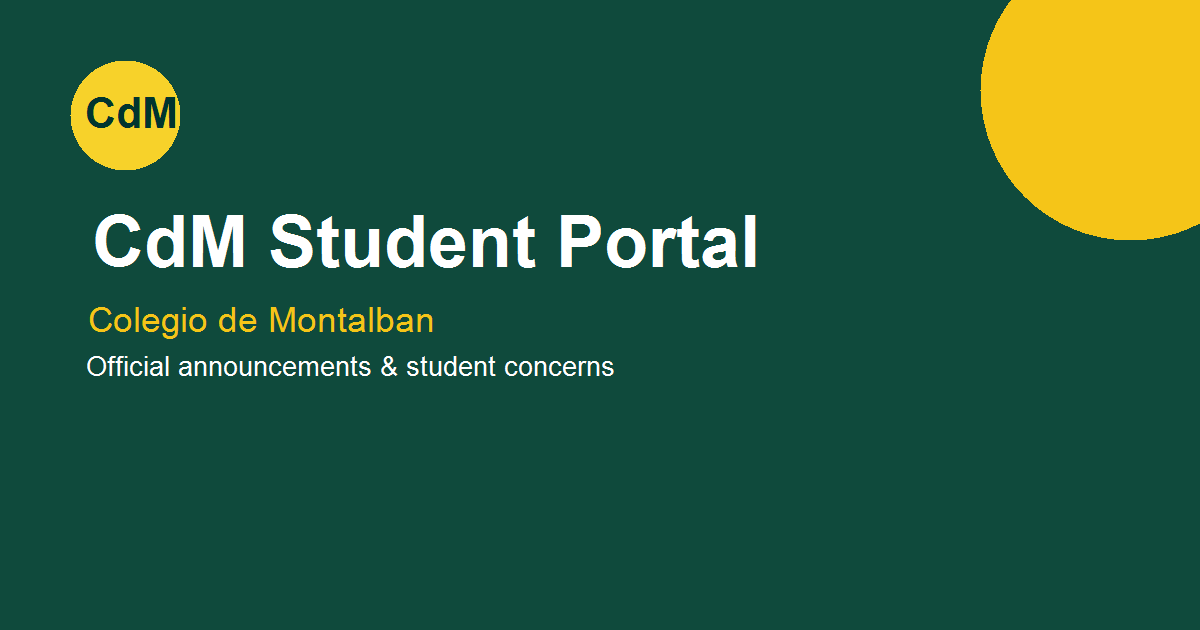
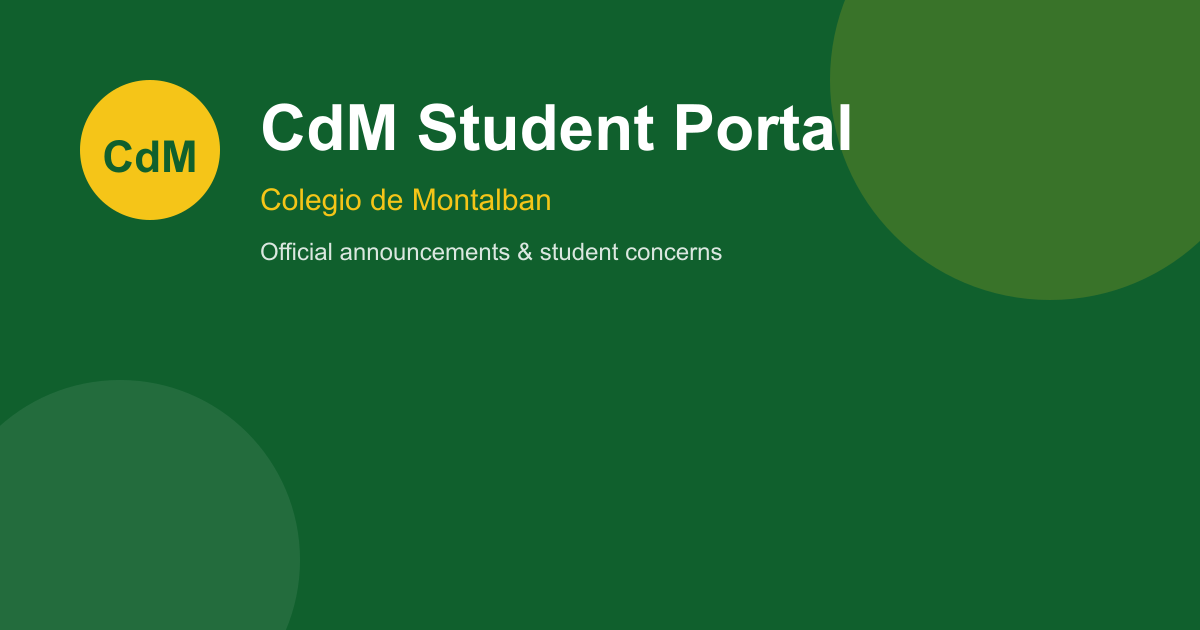
style: rebrand palette to evergreen + golden yellow
Retheme the design system from the previous navy-green/gold scheme to evergreen (#0A4D2E) and golden yellow (#F8C143), and update every place those colours are hard-coded: design tokens, gradients, selection, buttons and cards (styles.css); the CdM monogram (Logo.tsx); favicon.svg; og-cover.svg/png; the PWA manifest (theme_color); the theme-color meta tag in __root.tsx; the SSR error page; and the admin 'Read' status colour/badge.

Also applies prettier formatting to styles.css and backend/test-features.mjs. No behaviour change.

diff --git a/cdm-student-website-main/src/styles.css b/cdm-student-website-main/src/styles.css
@@ -56,44 +56,46 @@
 
 :root {
   --radius: 0.75rem;
-  --font-body: "Inter", ui-sans-serif, system-ui, -apple-system, "Segoe UI",
-    Roboto, Helvetica, Arial, sans-serif;
-  --font-heading: "Plus Jakarta Sans", "Inter", ui-sans-serif, system-ui,
-    -apple-system, "Segoe UI", Roboto, Helvetica, Arial, sans-serif;
-  --background: oklch(0.975 0.008 90);
-  --foreground: oklch(0.2 0.02 20);
+  --font-body:
+    "Inter", ui-sans-serif, system-ui, -apple-system, "Segoe UI", Roboto, Helvetica, Arial,
+    sans-serif;
+  --font-heading:
+    "Plus Jakarta Sans", "Inter", ui-sans-serif, system-ui, -apple-system, "Segoe UI", Roboto,
+    Helvetica, Arial, sans-serif;
+  --background: oklch(0.977 0.006 145);
+  --foreground: oklch(0.21 0.03 150);
   --card: oklch(1 0 0);
-  --card-foreground: oklch(0.2 0.02 20);
+  --card-foreground: oklch(0.21 0.03 150);
   --popover: oklch(1 0 0);
-  --popover-foreground: oklch(0.2 0.02 20);
-  /* Navy Green */
-  --primary: oklch(0.29 0.06 185);
-  --primary-foreground: oklch(0.97 0.02 170);
-  /* Yellow highlight */
-  --secondary: oklch(0.87 0.17 95);
-  --secondary-foreground: oklch(0.24 0.05 185);
-  --muted: oklch(0.95 0.008 90);
-  --muted-foreground: oklch(0.44 0.02 25);
-  --accent: oklch(0.87 0.17 95);
-  --accent-foreground: oklch(0.24 0.05 185);
+  --popover-foreground: oklch(0.21 0.03 150);
+  /* Evergreen — between forest and emerald */
+  --primary: oklch(0.372 0.083 157);
+  --primary-foreground: oklch(0.97 0.02 145);
+  /* Golden Yellow */
+  --secondary: oklch(0.84 0.15 84);
+  --secondary-foreground: oklch(0.24 0.06 150);
+  --muted: oklch(0.955 0.008 145);
+  --muted-foreground: oklch(0.46 0.02 150);
+  --accent: oklch(0.84 0.15 84);
+  --accent-foreground: oklch(0.24 0.06 150);
   --destructive: oklch(0.577 0.245 27.325);
   --destructive-foreground: oklch(0.984 0.003 247.858);
-  --border: oklch(0.9 0.03 185);
-  --input: oklch(0.9 0.03 185);
-  --ring: oklch(0.72 0.14 95);
-  --chart-1: oklch(0.45 0.07 185);
-  --chart-2: oklch(0.8 0.15 95);
-  --chart-3: oklch(0.35 0.06 190);
-  --chart-4: oklch(0.6 0.1 180);
-  --chart-5: oklch(0.72 0.14 95);
-  --sidebar: oklch(0.984 0.003 247.858);
-  --sidebar-foreground: oklch(0.129 0.042 264.695);
-  --sidebar-primary: oklch(0.29 0.06 185);
-  --sidebar-primary-foreground: oklch(0.97 0.02 170);
-  --sidebar-accent: oklch(0.9 0.1 95);
-  --sidebar-accent-foreground: oklch(0.3 0.055 185);
-  --sidebar-border: oklch(0.9 0.03 185);
-  --sidebar-ring: oklch(0.72 0.14 95);
+  --border: oklch(0.9 0.03 150);
+  --input: oklch(0.9 0.03 150);
+  --ring: oklch(0.75 0.15 84);
+  --chart-1: oklch(0.4 0.095 157);
+  --chart-2: oklch(0.8 0.15 84);
+  --chart-3: oklch(0.33 0.07 157);
+  --chart-4: oklch(0.62 0.11 157);
+  --chart-5: oklch(0.75 0.14 84);
+  --sidebar: oklch(0.98 0.005 145);
+  --sidebar-foreground: oklch(0.21 0.03 150);
+  --sidebar-primary: oklch(0.372 0.083 157);
+  --sidebar-primary-foreground: oklch(0.97 0.02 145);
+  --sidebar-accent: oklch(0.9 0.1 88);
+  --sidebar-accent-foreground: oklch(0.3 0.06 150);
+  --sidebar-border: oklch(0.9 0.03 150);
+  --sidebar-ring: oklch(0.75 0.15 84);
 }
 
 @layer base {
@@ -110,11 +112,9 @@
 
   body {
     background-color: var(--color-background);
-    background-image: radial-gradient(
-        ellipse 80% 50% at 50% -20%,
-        oklch(0.87 0.17 95 / 0.14),
-        transparent
-      );
+    background-image:
+      radial-gradient(ellipse 80% 50% at 50% -20%, oklch(0.84 0.15 84 / 0.16), transparent),
+      radial-gradient(ellipse 70% 45% at 110% 110%, oklch(0.372 0.083 157 / 0.08), transparent);
     background-attachment: fixed;
     color: var(--color-foreground);
     font-family: var(--font-body);
@@ -131,7 +131,7 @@
   }
 
   ::selection {
-    background-color: oklch(0.87 0.17 95 / 0.4);
+    background-color: oklch(0.84 0.15 84 / 0.4);
     color: var(--foreground);
   }
 
@@ -165,7 +165,7 @@
   .btn-primary:hover {
     filter: brightness(1.1);
     transform: translateY(-1px);
-    box-shadow: 0 8px 20px -6px oklch(0.29 0.06 185 / 0.5);
+    box-shadow: 0 8px 20px -6px oklch(0.372 0.083 157 / 0.5);
   }
   .btn-secondary {
     background-color: var(--secondary);
@@ -174,7 +174,7 @@
   .btn-secondary:hover {
     filter: brightness(0.96);
     transform: translateY(-1px);
-    box-shadow: 0 8px 20px -6px oklch(0.87 0.17 95 / 0.6);
+    box-shadow: 0 8px 20px -6px oklch(0.84 0.15 84 / 0.6);
   }
   .btn-outline {
     background-color: transparent;
@@ -187,11 +187,14 @@
 
   /* Card hover lift used across announcement/feature cards */
   .card-hover {
-    transition: transform 0.2s ease, box-shadow 0.2s ease, border-color 0.2s ease;
+    transition:
+      transform 0.2s ease,
+      box-shadow 0.2s ease,
+      border-color 0.2s ease;
   }
   .card-hover:hover {
     transform: translateY(-3px);
-    box-shadow: 0 12px 28px -12px oklch(0.2 0.02 20 / 0.25);
-    border-color: oklch(0.8 0.06 185);
+    box-shadow: 0 12px 28px -12px oklch(0.21 0.03 150 / 0.25);
+    border-color: oklch(0.78 0.09 150);
   }
 }

diff --git a/cdm-student-website-main/src/lib/error-page.ts b/cdm-student-website-main/src/lib/error-page.ts
@@ -6,13 +6,13 @@ export function renderErrorPage(): string {
     <title>This page didn't load</title>
     <meta name="viewport" content="width=device-width, initial-scale=1" />
     <style>
-      body { font: 15px/1.5 system-ui, -apple-system, sans-serif; background: #fafafa; color: #111; display: grid; place-items: center; min-height: 100vh; margin: 0; padding: 1.5rem; }
+      body { font: 15px/1.5 system-ui, -apple-system, sans-serif; background: #f7faf8; color: #111; display: grid; place-items: center; min-height: 100vh; margin: 0; padding: 1.5rem; }
       .card { max-width: 28rem; width: 100%; text-align: center; padding: 2rem; }
       h1 { font-size: 1.25rem; margin: 0 0 0.5rem; }
       p { color: #4b5563; margin: 0 0 1.5rem; }
       .actions { display: flex; gap: 0.5rem; justify-content: center; flex-wrap: wrap; }
       a, button { padding: 0.5rem 1rem; border-radius: 0.375rem; font: inherit; cursor: pointer; text-decoration: none; border: 1px solid transparent; }
-      .primary { background: #111; color: #fff; }
+      .primary { background: #0A4D2E; color: #fff; }
       .secondary { background: #fff; color: #111; border-color: #d1d5db; }
     </style>
   </head>

diff --git a/cdm-student-website-main/src/components/Logo.tsx b/cdm-student-website-main/src/components/Logo.tsx
@@ -11,11 +11,11 @@ type LogoProps = {
  * needs no image asset and scales crisply at any size.
  *
  * Colours come from the design system via Tailwind's fill/stroke utilities
- * (`fill-secondary` gold disc, `fill-primary`/`stroke-primary` navy green
+ * (`fill-secondary` gold disc, `fill-primary`/`stroke-primary` forest green
  * artwork), which resolve to the --color-* theme variables in styles.css — so
  * the mark follows any palette change automatically.
  *
- * Layout is centred on a 48x48 viewBox: gold disc, inset navy ring,
+ * Layout is centred on a 48x48 viewBox: gold disc, inset green ring,
  * graduation cap, then the "CdM" monogram.
  */
 export function Logo({ className, title }: LogoProps) {
@@ -33,7 +33,7 @@ export function Logo({ className, title }: LogoProps) {
       {/* Gold disc */}
       <circle cx="24" cy="24" r="23.5" className="fill-secondary" />
 
-      {/* Inset navy green ring */}
+      {/* Inset forest green ring */}
       <circle
         cx="24"
         cy="24"

diff --git a/cdm-student-website-main/src/routes/admin.tsx b/cdm-student-website-main/src/routes/admin.tsx
@@ -260,7 +260,7 @@ function OverviewTab() {
         <div className="flex flex-wrap gap-6">
           {[
             { label: "Pending", value: stats.pending, color: "#f59e0b" },
-            { label: "Read", value: stats.read, color: "#3b82f6" },
+            { label: "Read", value: stats.read, color: "#0A4D2E" },
             { label: "Resolved", value: stats.resolved, color: "#10b981" },
           ].map((s) => {
             const total = stats.concerns || 1;
@@ -960,7 +960,7 @@ function ConcernsTab() {
                       (c.status === "Resolved"
                         ? "bg-emerald-100 text-emerald-700"
                         : c.status === "Read"
-                          ? "bg-blue-100 text-blue-700"
+                          ? "bg-green-100 text-green-700"
                           : "bg-amber-100 text-amber-700")
                     }
                   >

diff --git a/cdm-student-website-main/src/routes/__root.tsx b/cdm-student-website-main/src/routes/__root.tsx
@@ -81,7 +81,7 @@ export const Route = createRootRouteWithContext<{ queryClient: QueryClient }>()(
     meta: [
       { charSet: "utf-8" },
       { name: "viewport", content: "width=device-width, initial-scale=1" },
-      { name: "theme-color", content: "#0f4a3c" },
+      { name: "theme-color", content: "#0A4D2E" },
       { title: "Area-Based Academic Information Dissemination System — Colegio de Montalban" },
       {
         name: "Description",
